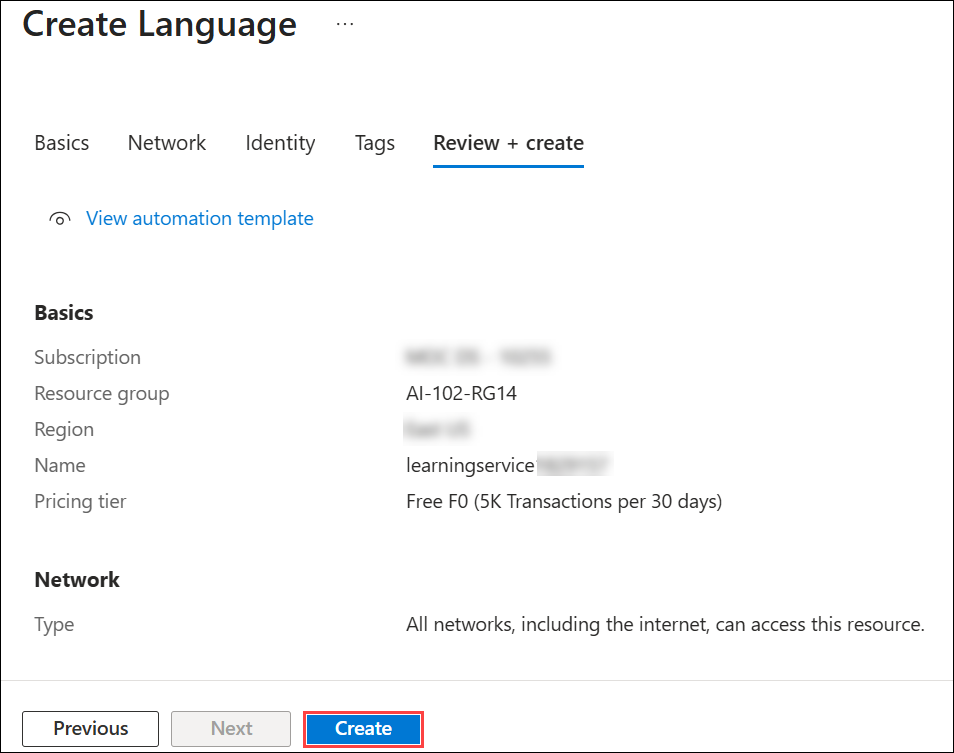
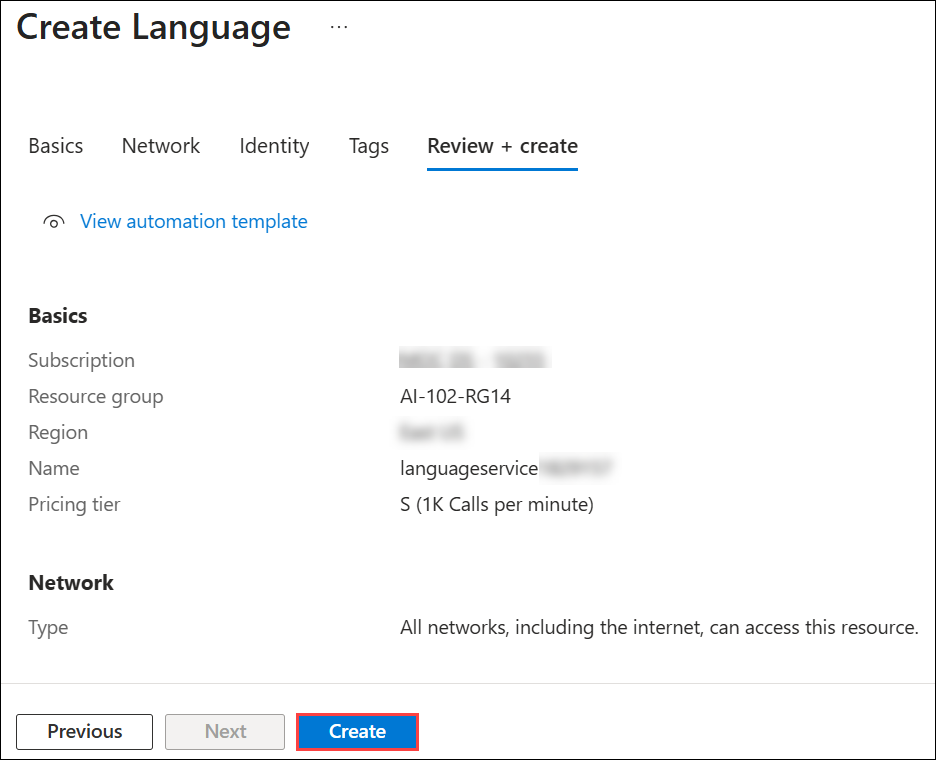
update

diff --git a/Instructions/AI-102/Labs/Lab14.md b/Instructions/AI-102/Labs/Lab14.md
@@ -21,11 +21,11 @@ If you don't already have one in your subscription, you'll need to provision an 
 
 1. If prompted, provide the credentials below:
 
-   - **Email/Username:** <inject key="AzureAdUserEmail"></inject>
+    - **Email/Username:** <inject key="AzureAdUserEmail"></inject>
 
         ![](../Images/l14t1p1.png)
 
-   - **Password:** <inject key="AzureAdUserPassword"></inject>
+    - **Password:** <inject key="AzureAdUserPassword"></inject>
 
         ![](../Images/l14t1p2.png)
 
@@ -55,12 +55,12 @@ If you don't already have one in your subscription, you'll need to provision an 
 
 1. Provision the resource with the following settings, then select **Review + create**:
 
-    * Subscription: **Default Subscription**
-    * Resource group: **AI-102-RG14 (1)**
-    * Region: **<inject key="Region"></inject> (2)**
-    * Name: **learningservice<inject key="DeploymentID"></inject> (3)**
-    * Pricing tier: **F0 (4)** (*free*) (**S** (*standard*) if F0 isn’t available)
-    * Responsible AI Notice: **Agree (5)**
+    * Subscription: **Default Subscription (1)**
+    * Resource group: **AI-102-RG14 (2)**
+    * Region: **<inject key="Region"></inject> (3)**
+    * Name: **languageservice<inject key="DeploymentID"></inject> (4)**
+    * Pricing tier: **F0 (5)** (*free*) (**S** (*standard*) if F0 isn’t available)
+    * Responsible AI Notice: **Agree (6)**
 
         ![](../Images/l14t1p9.png)
 
